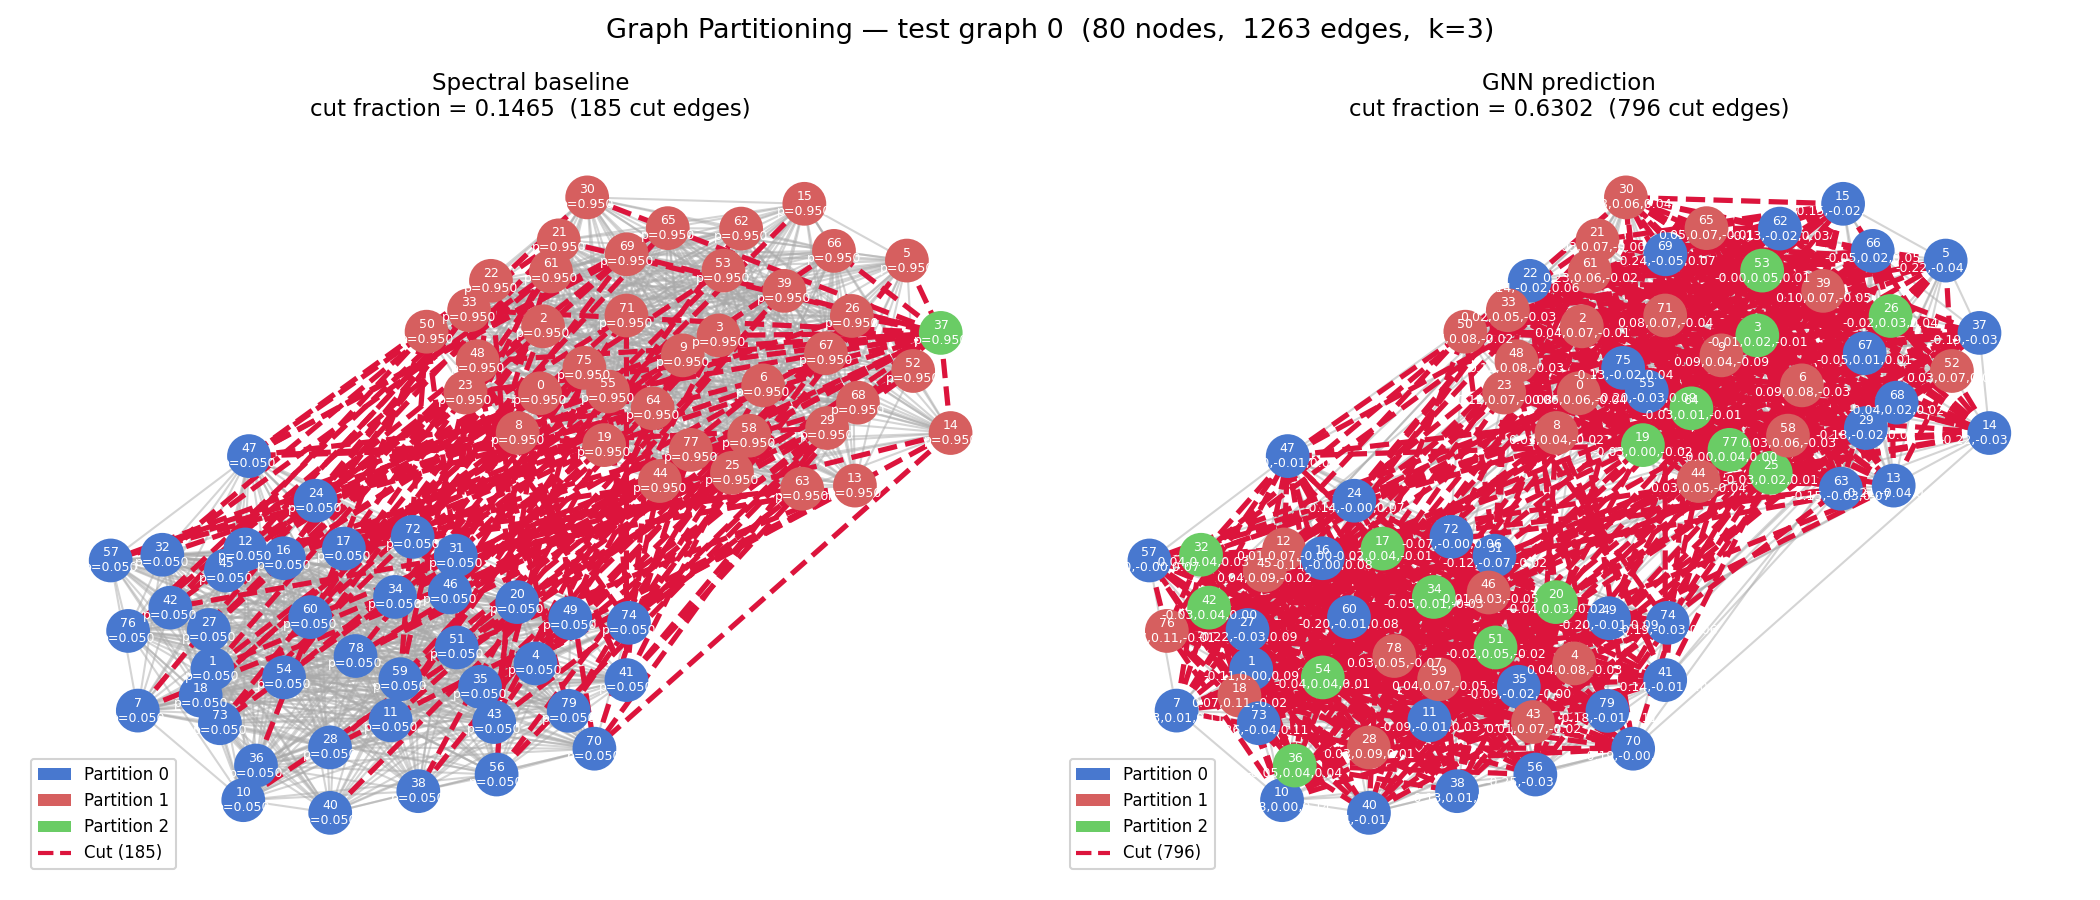
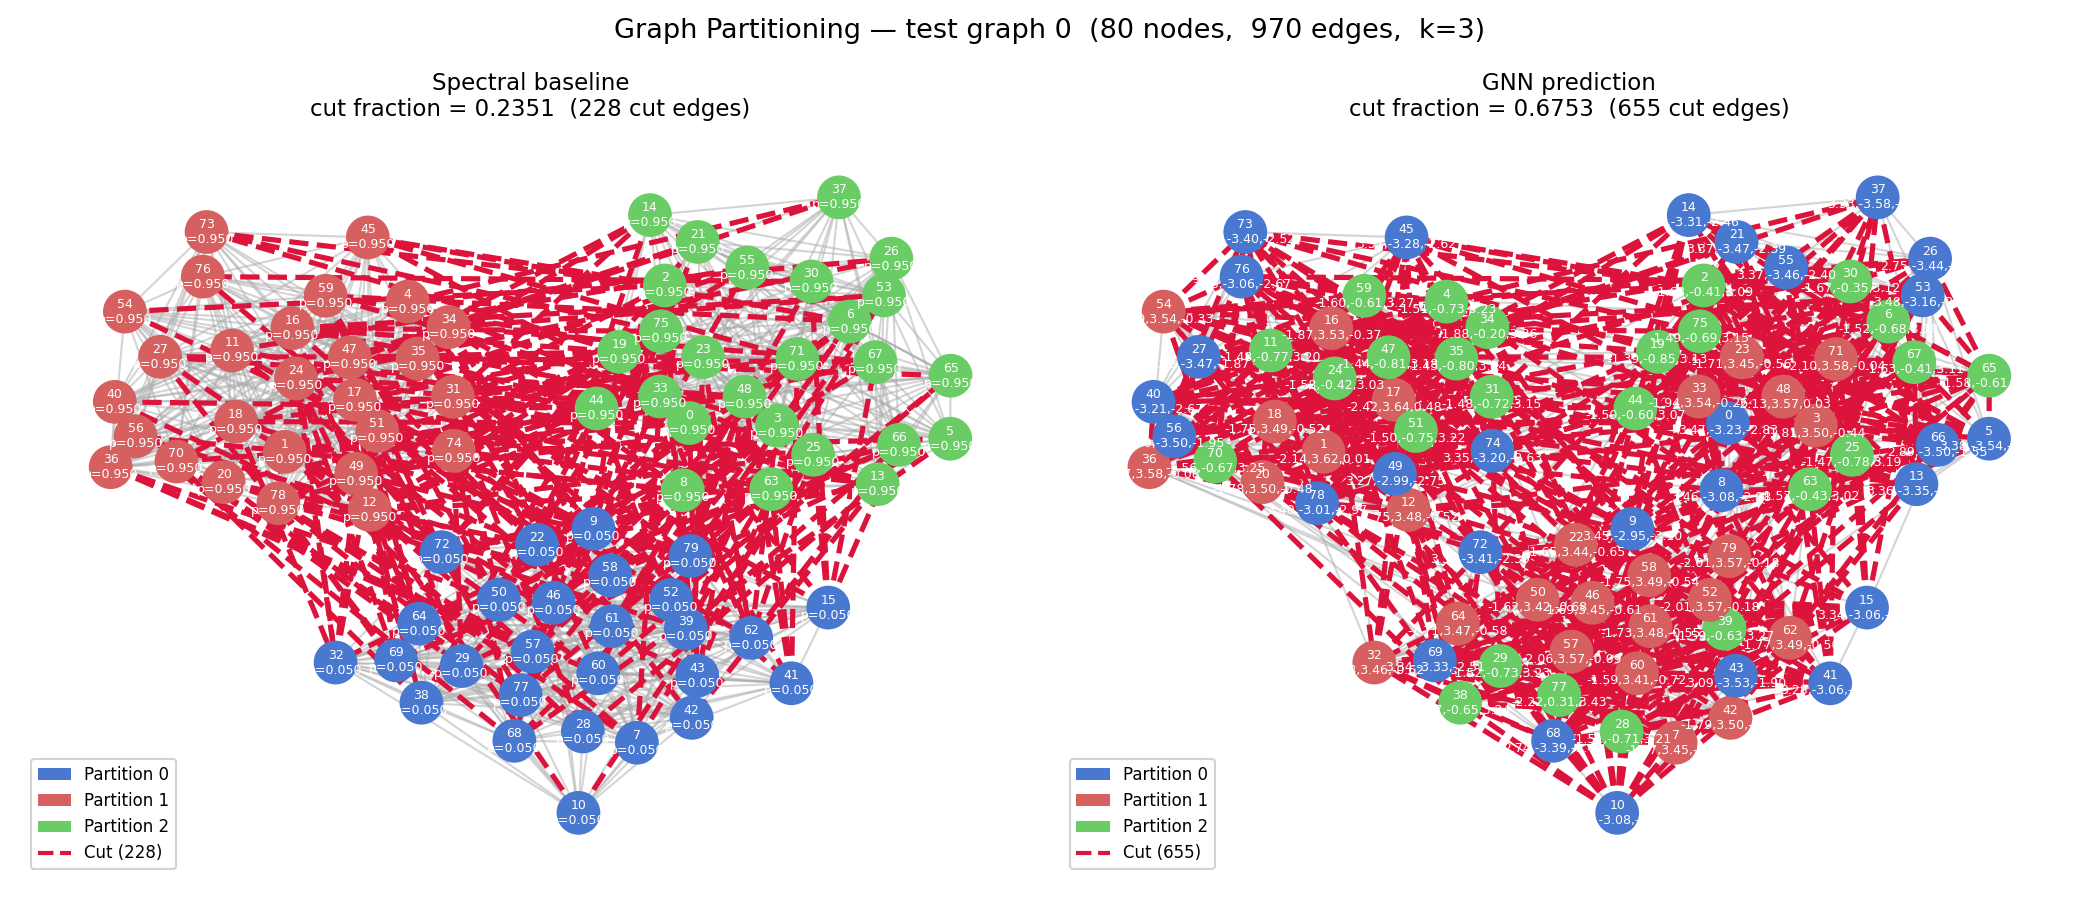
Making some changes

diff --git a/test_gp_partition.py b/test_gp_partition.py
@@ -48,21 +48,22 @@ COLORS = ["#4878CF", "#D65F5F", "#6ACC65", "#B47CC7", "#C4AD66"]  # up to 5 part
 #     return ((2 * probs - 1) >= 0).astype(int)
 
 def decode_gnn(emb: np.ndarray, k: int = 2) -> np.ndarray:
-    """K-means on unit-sphere-normalised embeddings.
-    The partition directions emerge from training so we cluster rather than
-    project onto fixed prototypes.
+    """Decode GNN output to partition labels.
+
+    - dim_out == k  (softmax vector): argmax directly gives the partition.
+    - dim_out == 1, k == 2: threshold at 0.5.
+    - dim_out == 1, k > 2 : 1-D KMeans (legacy scalar configs).
     """
     from sklearn.cluster import KMeans
     if emb.ndim == 1:
         emb = emb[:, None]
-    if emb.shape[1] == 1:
-        if k == 2:
-            return (emb.squeeze() >= 0.5).astype(int)
-        # scalar output, k>2: cluster the raw scalar values directly
-        return KMeans(n_clusters=k, n_init=10, random_state=0).fit_predict(emb).astype(int)
-    norm = np.linalg.norm(emb, axis=-1, keepdims=True) + 1e-8
-    x_norm = emb / norm
-    return KMeans(n_clusters=k, n_init=10, random_state=0).fit_predict(x_norm).astype(int)
+    if emb.shape[1] > 1:
+        # multi-dim output (softmax): take argmax
+        return np.argmax(emb, axis=-1).astype(int)
+    # scalar output
+    if k == 2:
+        return (emb.squeeze() >= 0.5).astype(int)
+    return KMeans(n_clusters=k, n_init=10, random_state=0).fit_predict(emb).astype(int)
 
 
 def cut_fraction(edge_index, labels) -> float:

diff --git a/graphgym/loss/copt_loss.py b/graphgym/loss/copt_loss.py
@@ -492,7 +492,7 @@ def gp_loss_balanced_pyg(batch, beta=500, gamma=1000, k=2, **kwargs):
         adj_mask.fill_diagonal_(True)
         non_adj_mask = (~adj_mask).unsqueeze(-1).expand_as(all_pairs)  # (n, n, k)
 
-        loss2 = torch.sum(1 - all_pairs[non_adj_mask])
+        loss2 = torch.sum((1 - all_pairs[non_adj_mask])**2)
 
         # term 3: balance constraint — each partition c should have n/k nodes
         # data.x.sum(0) is (k,) — sum over nodes for each partition